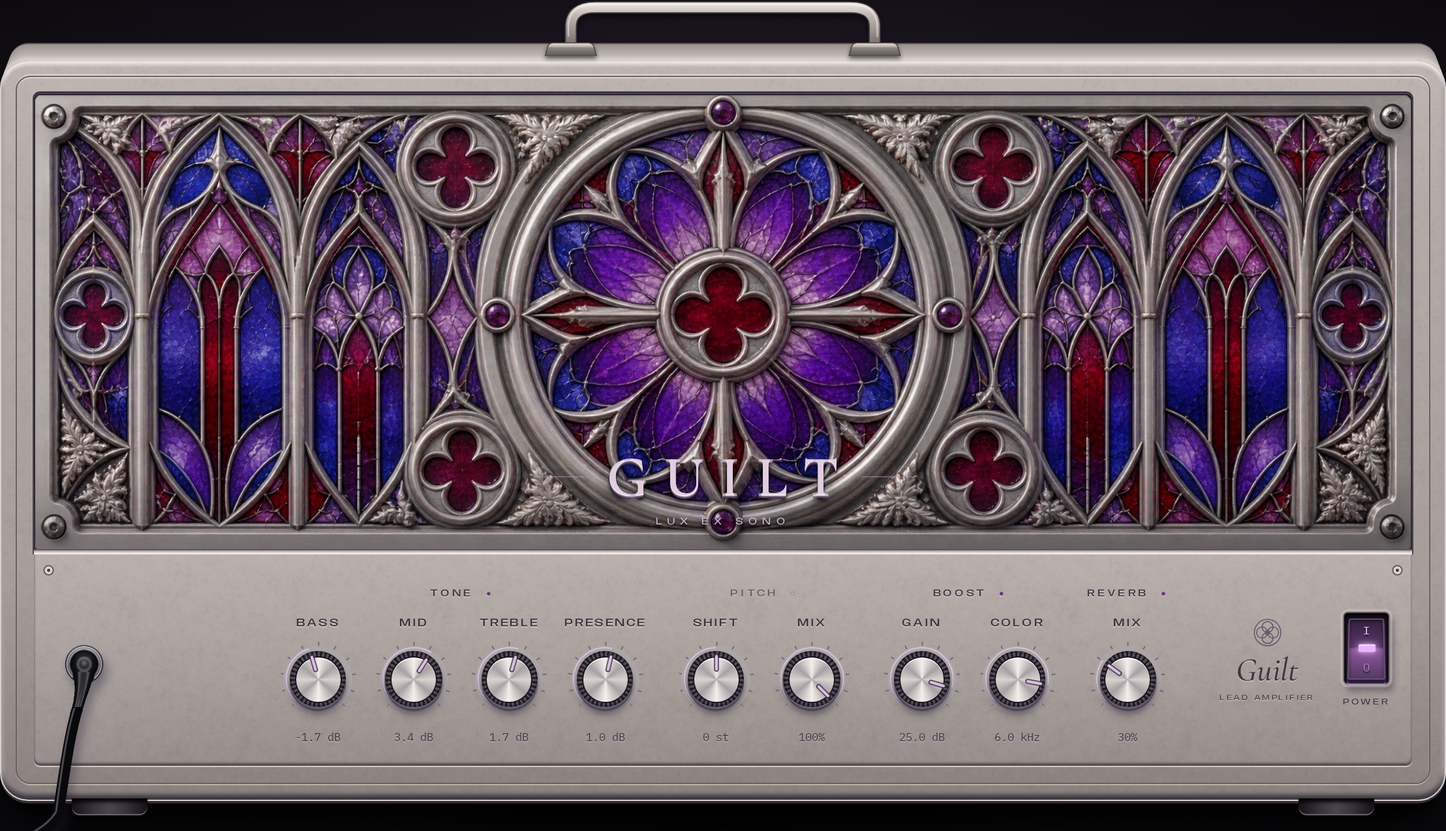
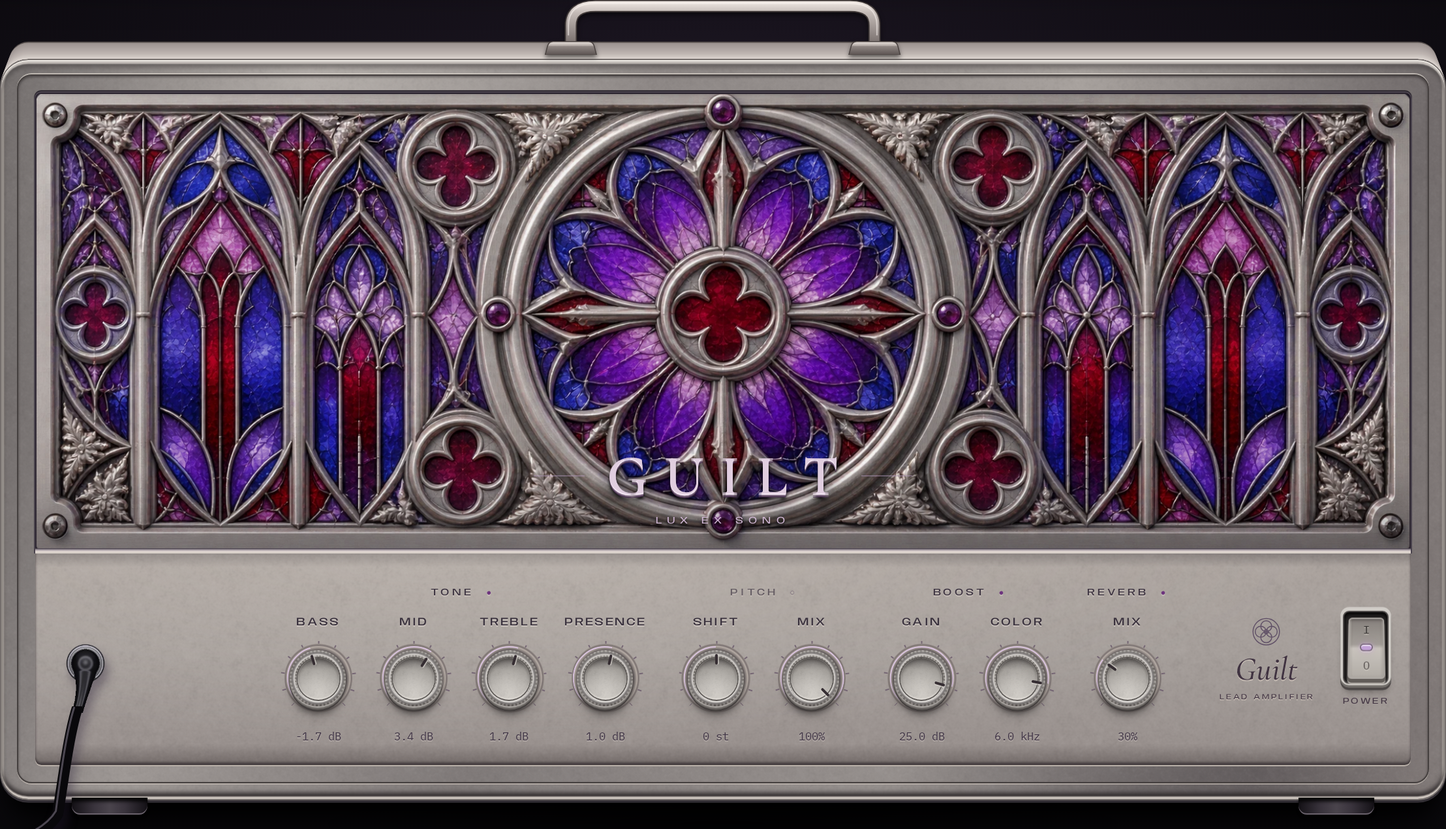
Refine GUILT amp control finishes

diff --git a/app/AmpHead.svelte b/app/AmpHead.svelte
@@ -182,12 +182,16 @@
     isolation: isolate;
     margin: 48px 0 0;
     padding: var(--guilt-rim);
-    border: 1px solid #d9d0cb;
+    border: 1px solid #746e6c;
     border-radius: 23px;
-    /* The metal of the glass's tracery, sampled from its bezel: a warm
-       silver, lighter where it faces the light, never brushed. */
-    background: url('/images/guilt-cast.webp') 0 0 / 256px 256px,linear-gradient(180deg,#bfb6b2,#b5aca8 18%,#a79e9a 70%,#8b8280);
-    box-shadow: inset 0 3px 3px #fff9,inset 0 -4px 4px #39353e,inset 2px 0 3px #ece6e477,inset -2px 0 3px #ece6e477,0 2px 0 #322e34,0 18px 16px -9px #000d,0 36px 45px -17px #000e;
+    /* Plain cast silver: narrow polished edges and darker oxidised flats,
+       matching the glass bezel's material without repeating its ornament. */
+    background:
+      url('/images/guilt-cast.webp') 0 0 / 192px 192px,
+      radial-gradient(ellipse at 24% 0%,#eee9e147,transparent 38%),
+      radial-gradient(ellipse at 80% 100%,#302b3040,transparent 42%),
+      linear-gradient(105deg,#625d5d,#9e9895 19%,#807a79 40%,#a8a29e 66%,#716b6b 88%,#938b88);
+    box-shadow: inset 0 1px 0 #ece8e2,inset 0 3px 1px #c7c1bc,inset 0 6px 4px #3b373688,inset 0 -2px 1px #d0c8c1,inset 0 -5px 4px #302b2c,inset 2px 0 1px #d5cec6,inset -2px 0 1px #d5cec6,0 2px 0 #322e34,0 18px 16px -9px #000d,0 36px 45px -17px #000e;
   }
   /* The top of the cabinet, seen from a little above: the front outline
      pushed back and narrowed by perspective, one layer per pixel of depth.
@@ -206,9 +210,9 @@
     position: absolute;
     z-index: 4;
     inset: 12px;
-    border: 1px solid #6a605d;
+    border: 1px solid #45403f;
     border-radius: 12px;
-    box-shadow: 0 -1px 0 #fff8,inset 0 1px 1px #fff7,0 1px 0 #f1e7df77;
+    box-shadow: 0 -1px 0 #d4ccc4bb,0 1px 0 #c4bbb4aa,inset 0 1px 2px #29252699;
     pointer-events: none;
   }
   .guilt-handle {
@@ -281,11 +285,10 @@
     border: 0;
     border-radius: 0 0 var(--guilt-front-radius) var(--guilt-front-radius);
     background:
-      radial-gradient(circle at 12px 14px,#413742 0 1px,#ddd2c8 1.5px 3px,#5f545e 3.5px 4px,transparent 4.5px),
-      radial-gradient(circle at calc(100% - 12px) 14px,#413742 0 1px,#ddd2c8 1.5px 3px,#5f545e 3.5px 4px,transparent 4.5px),
-      url('/images/guilt-cast.webp') 0 0 / 256px 256px,
-      linear-gradient(180deg,#bab1ad,#a9a09c 55%,#978e8b);
-    box-shadow: inset 0 1px 0 #f6e9df,inset 0 -2px 2px #4c4353,0 1px 0 #d9c8bc;
+      url('/images/guilt-cast.webp') 0 0 / 192px 192px,
+      radial-gradient(ellipse at 30% 0%,#dfd8cf40,transparent 65%),
+      linear-gradient(180deg,#827b79,#aba39e 7%,#a59e9a 48%,#99918e 90%,#716967);
+    box-shadow: inset 0 1px 0 #d4ccc5,inset 0 -2px 2px #423b3d,0 1px 0 #b9b0a8;
   }
   .guilt .amp-panel::before {
     content: '';
@@ -312,7 +315,7 @@
     background: conic-gradient(from 225deg,#746573 0deg,transparent 1deg 26deg,#746573 27deg 28deg,transparent 29deg 53deg,#746573 54deg 55deg,transparent 56deg 80deg,#746573 81deg 82deg,transparent 83deg 107deg,#746573 108deg 109deg,transparent 110deg 134deg,#746573 135deg 136deg,transparent 137deg 161deg,#746573 162deg 163deg,transparent 164deg 188deg,#746573 189deg 190deg,transparent 191deg 215deg,#746573 216deg 217deg,transparent 218deg 242deg,#746573 243deg 244deg,transparent 245deg 269deg,#746573 270deg,transparent 271deg);
     box-shadow: none;
   }
-  .guilt :global(.dial::before) { inset: 3px; background: #aca5a6; box-shadow: none; }
+  .guilt :global(.dial::before) { inset: 3px; background: radial-gradient(circle,#595253 57%,#b6aca5 65%,#7a7170 68%,#aaa19b 72%); box-shadow: none; }
   .guilt :global(.power-dial .dial-light) { inset: 5px; }
   .guilt :global(.sweep-half::before) { border-width: 2px; }
   /* Seen from the same point above as the cabinet: the cap's side shows
@@ -320,29 +323,32 @@
   .guilt :global(.cap) {
     inset: 8px;
     border: 0;
-    /* A knurled skirt: fine enough to read as grip, coarse enough not to
-       beat against the pixel grid the way a baked texture did at 46 px. */
+    /* A broad polished bevel over a finely fluted, oxidised silver skirt. */
     background:
-      radial-gradient(circle,#0000 0 64%,#0007 72%,#0000 80%,#fff2 94%,#0000),
-      repeating-conic-gradient(#57505c 0 5deg,#221d26 5deg 10deg);
-    box-shadow: 0 1px 0 #6f6674,0 2px 0 #5a5160,0 3px 0 #463e4c,0 5px 4px #1d152866,0 9px 9px -3px #1d152855;
+      radial-gradient(circle,transparent 57%,#d8d4d0 59%,#787473 64%,transparent 69%,#39363640 88%,#dedad699 95%,#4d4a49 100%),
+      conic-gradient(#dad7d2,#7f7c79 65deg,#b2afaa 105deg,#6e6a69 155deg,#494645 180deg,#6e6a69 205deg,#b2afaa 255deg,#7f7c79 295deg,#dad7d2),
+      repeating-conic-gradient(#989491 0 4deg,#6e6b68 4deg 8deg);
+    background-blend-mode: normal,soft-light,normal;
+    box-shadow: 0 1px 0 #aba6a2,0 2px 0 #7c7874,0 3px 0 #5c5755,0 4px 0 #403c3b,0 6px 4px #25222266,0 10px 9px -3px #25222266;
     transform: none;
   }
-  /* The face: spun metal lit from the front, so its highlights sit top and
-     bottom, symmetric, whatever the value. */
+  /* A shallow dished face. The reflection stays fixed while the engraved
+     index rotates, so the metal never appears to turn with the lighting. */
   .guilt :global(.cap::before) {
     content: '';
     position: absolute;
-    inset: 5px;
+    inset: 6px;
     border-radius: 50%;
     background:
-      radial-gradient(circle,#0000 0 30%,#0000 88%,#5a525e 96%),
-      conic-gradient(#f4efeb,#a7a0a4 50deg,#d9d3cf 90deg,#a7a0a4 130deg,#f4efeb 180deg,#a7a0a4 230deg,#d9d3cf 270deg,#a7a0a4 310deg,#f4efeb);
-    box-shadow: 0 0 0 1px #1a151d,inset 0 1px 0 #fffb;
+      url('/images/guilt-cast.webp') center / 96px 96px,
+      radial-gradient(ellipse at 50% 88%,#dcd8d299,transparent 62%),
+      linear-gradient(#706c6a,#a39f9a 28%,#b8b4af 65%,#c2beb9);
+    box-shadow: 0 0 0 1px #5d5956,0 1px 0 1px #dcd9d5,inset 0 2px 3px #2f2a2877,inset 0 -1px 1px #ede9e3aa;
   }
   /* A line engraved from the rim toward the centre; it turns about the
      cap's centre (23 px), never about its own. */
-  .guilt :global(.indicator) { z-index: 1; top: 3px; left: calc(50% - 1px); width: 2px; height: 13px; border-radius: 1px; background: #4a2c5a; box-shadow: 0 0 0 1px #24182bcc; transform-origin: 1px 20px; transform: rotate(var(--angle)); }
+  .guilt :global(.indicator) { z-index: 1; top: 3px; left: calc(50% - 1px); width: 2px; height: 9px; border-radius: 1px; background: #352d32; box-shadow: 1px 0 0 #d9d5cfaa; transform-origin: 1px 20px; transform: rotate(var(--angle)); }
+  .guilt :global(.indicator::after) { display: none; }
   .guilt .amp-signature { position: absolute; right: 76px; top: 50%; transform: translateY(-50%); min-width: 84px; color: #403341; text-shadow: 0 1px 0 #e9dcd080; }
   .guilt .sig-symbol { color: #56455f; width: 24px; height: 24px; }
   .guilt .amp-signature>span { font-size: 27px; }
@@ -351,15 +357,15 @@
   .jack-cable { position: absolute; left: -301px; top: 51px; overflow: visible; }
   .guilt .power-indicator { position: absolute; right: 14px; top: 50%; transform: translateY(-50%); gap: 12px; min-width: 42px; padding: 8px 4px; }
   .guilt .power-indicator small { color: #403341; }
-  .guilt .power-indicator>span.power-rocker { position: relative; display: block; width: 30px; height: 51px; padding: 3px; border: 1px solid #746576; border-radius: 4px; background: #18121e; perspective: 180px; box-shadow: 0 0 0 2px #d7cbc477,3px 5px 5px #30203766,inset 0 2px 4px #000; }
-  .rocker-face { position: absolute; inset: 3px; display: flex; flex-direction: column; align-items: center; justify-content: space-around; border: 1px solid #665270; border-radius: 2px; background: linear-gradient(#6b5278,#32223f 48%,#22172b 52%,#3b2b45); transform: rotateX(-13deg); box-shadow: 0 -2px 0 #24172f,0 -3px 1px #9985a3; color: #c5accf; font: 9px var(--mono); text-shadow: 0 1px 1px #000; }
-  .rocker-on { color: #a58ab3; }
-  .rocker-off { color: #f3e4f6; }
-  .rocker-lamp { position: relative; width: 14px; height: 7px; border-radius: 1px; background: #3b2445; box-shadow: inset 0 1px 2px #000; }
-  .rocker-lamp::after { content: ''; position: absolute; inset: 0; border-radius: inherit; background: #e9b6fc; box-shadow: 0 0 5px #eac4ff,0 0 15px #c06decaa,inset 0 1px 0 #fff9; opacity: 0; transition: opacity 550ms ease-in; }
-  .power-rocker.lit .rocker-face { transform: rotateX(13deg); background: linear-gradient(#35213f,#533360 48%,#8a5996 52%,#573966); box-shadow: 0 3px 0 #291a35,0 4px 1px #b499bd,inset 0 1px 3px #0008; }
-  .power-rocker.lit .rocker-on { color: #fff0ff; }
-  .power-rocker.lit .rocker-off { color: #b591bf; }
+  .guilt .power-indicator>span.power-rocker { position: relative; display: block; width: 30px; height: 51px; padding: 3px; border: 1px solid #4c4847; border-radius: 5px; background: #292626; perspective: 180px; box-shadow: 0 -1px 0 2px #d0ccc7,0 1px 0 2px #736f6b,0 3px 0 2px #4c4746,0 6px 5px #2b272666,inset 0 2px 4px #000; }
+  .rocker-face { position: absolute; inset: 3px; display: flex; flex-direction: column; align-items: center; justify-content: space-around; border: 1px solid #aca7a2; border-radius: 3px; background: linear-gradient(#cbc6c0,#a7a29c 45%,#7e7974 52%,#9d9893); transform: rotateX(-13deg); box-shadow: 0 -2px 0 #605c58,0 -3px 1px #d9d5d0,inset 1px 0 1px #e8e4de99,inset -1px 0 1px #e8e4de66; color: #3d3938; font: 9px var(--mono); text-shadow: 0 1px 0 #d8d3cc99; }
+  .rocker-on { color: #534e4c; }
+  .rocker-off { color: #2c2928; }
+  .rocker-lamp { position: relative; width: 9px; height: 4px; border-radius: 2px; background: #35263e; box-shadow: 0 0 0 1px #524d4c,0 1px 0 1px #d6d1ca,inset 0 1px 2px #000; }
+  .rocker-lamp::after { content: ''; position: absolute; inset: 0; border-radius: inherit; background: #c3a2d8; box-shadow: 0 0 4px #d9b7ee,0 0 8px #a56bb377,inset 0 1px 0 #fff9; opacity: 0; transition: opacity 550ms ease-in; }
+  .power-rocker.lit .rocker-face { transform: rotateX(13deg); background: linear-gradient(#86807c,#a39e98 45%,#c9c4bd 52%,#b1aca6); box-shadow: 0 3px 0 #615c58,0 4px 1px #c8c3bc,inset 0 1px 3px #2e2a2788,inset 1px 0 1px #e8e4de99,inset -1px 0 1px #e8e4de66; }
+  .power-rocker.lit .rocker-on { color: #2c2928; }
+  .power-rocker.lit .rocker-off { color: #534e4c; }
   .power-rocker.lit .rocker-lamp::after { opacity: 1; }
   .guilt .power-indicator:hover:not(:disabled) .power-rocker { border-color: #e1c8ef; }
   .guilt .power-indicator:active:not(:disabled) .rocker-face { transform: rotateX(0deg); }

diff --git a/docs/guilt-material-study.md b/docs/guilt-material-study.md
@@ -13,4 +13,12 @@ La façade est un rendu statique. Les masques SVG isolent les zones colorées po
 
 Asset : `public/images/guilt-sculpted-glass.webp`. Généré avec l'outil intégré **imagegen**, puis encodé en WebP. L'image originale est conservée. Prompt complet : `guilt-material-prompt.txt`.
 
-Vérification : compilation de production réussie dans une copie isolée ; Svelte sans erreur (un avertissement existant dans TabReader). Contrôles navigateur validés : clavier, glisser, retour au preset, activation des groupes, alimentation, réduction des animations, absence de débordement horizontal sur sept formats de 360 à 1920 px. Accueil français vérifié avec les nouvelles captures. La suite globale `test:studio` s'arrête sur son assertion de centrage du curseur de tablature (écart de 54 px, ligne 420) ; elle n'est donc pas entièrement validée. Le lecteur de tablature n'a pas été modifié dans cette intervention.
+Harmonisation corrigée : le caisson et la bande de commandes reprennent uniquement la matière du cadre argenté du vitrail. Les aplats sont plus sombres, les arêtes polies plus contrastées, et la moulure extérieure reste simple. Aucun motif du vitrail n'est reproduit ailleurs : façade en émail violet, bordures ornementales et incrustation de la poignée retirées ; faces argentées des boutons rétablies. La finition repose sur les dégradés CSS et le grain de métal existant. Dimensions, positions, perspective, pieds et axes des boutons conservés. Vitrail principal et éclairage inchangés.
+
+Commandes : les références 1 et 2 inspirent les biseaux larges, les centres légèrement creusés et les ombres de contact. Les potentiomètres reprennent l'argent patiné du cadre : jupe finement cannelée, biseau poli, repère sombre gravé ; leur éclairage reste fixe pendant la rotation du repère. L'interrupteur est en métal patiné, avec un petit voyant violet. Emplacements, dimensions extérieures, axes, interactions et perspective conservés.
+
+Vérification de l'harmonisation : Svelte sans erreur (un avertissement existant dans TabReader). Contrôles navigateur validés : clavier, glisser, double-clic de réinitialisation, activation des groupes, alimentation, réduction des animations et absence d'erreur JavaScript. Aucun débordement horizontal sur sept formats de 360 à 1920 px ; commandes centrées. Comparaison avec la version de départ : règles du dessus du caisson, de la poignée, des pieds et de l'encadrement du vitrail inchangées. Captures du studio, de l'ampli et de sa bande de commandes actualisées.
+
+Compilation de production de l'harmonisation réussie, nouvelles captures incluses.
+
+Vérification antérieure du vitrail : compilation de production réussie dans une copie isolée et accueil français vérifié. La suite globale `test:studio` s'arrêtait sur son assertion de centrage du curseur de tablature (écart de 54 px, ligne 420). Cette suite n'a pas été relancée pour l'harmonisation des matières ; le lecteur de tablature n'a pas été modifié.

diff --git a/DESIGN.md b/DESIGN.md
@@ -118,6 +118,8 @@ GUILT's rose window, pointed arches and quatrefoils sit behind raised pewter tra
 
 The stained glass is lit by the signal. Its glow layer's opacity follows the output RMS posted by the worklet at 30 Hz, mapped from −60 to 0 dBFS, and falls to its unlit baseline when the engine stops or the amp is off. Static SVG colour masks isolate violet, blue and burgundy glass from the neutral metal: switching off darkens the glass while the silver retains its reflections. Masks and bloom are rasterised once; only opacity moves.
 
+The cabinet and control faceplate share the glass bezel's patinated silver finish: darker metal flats, narrow polished edges and subtle cast grain. The outer moulding is plain; stained-glass motifs and coloured enamel stay confined to the original window. Knobs have a broad polished silver bevel, a shallow dished face and a fine fluted skirt, with a dark engraved index. Their lighting stays fixed as the index rotates. The power rocker shares the same patinated metal, with a small violet status lamp and mechanically distinct on/off positions. Cabinet dimensions, centred viewpoint and control positions are preserved. Materials use static CSS gradients and the existing cast-metal grain; there is no additional ornamental image.
+
 The glass and the two meters are the whole visualisation layer. There is no spectrum analyser, no oscilloscope, no `AnalyserNode` and no `<canvas>` anywhere in the product. Under `prefers-reduced-motion` the glass holds a steady illumination.
 
 On a pre-rendered preset page, the same illumination is driven by the RMS envelope computed at build time and animated from `audio.currentTime`, with no audio graph.
